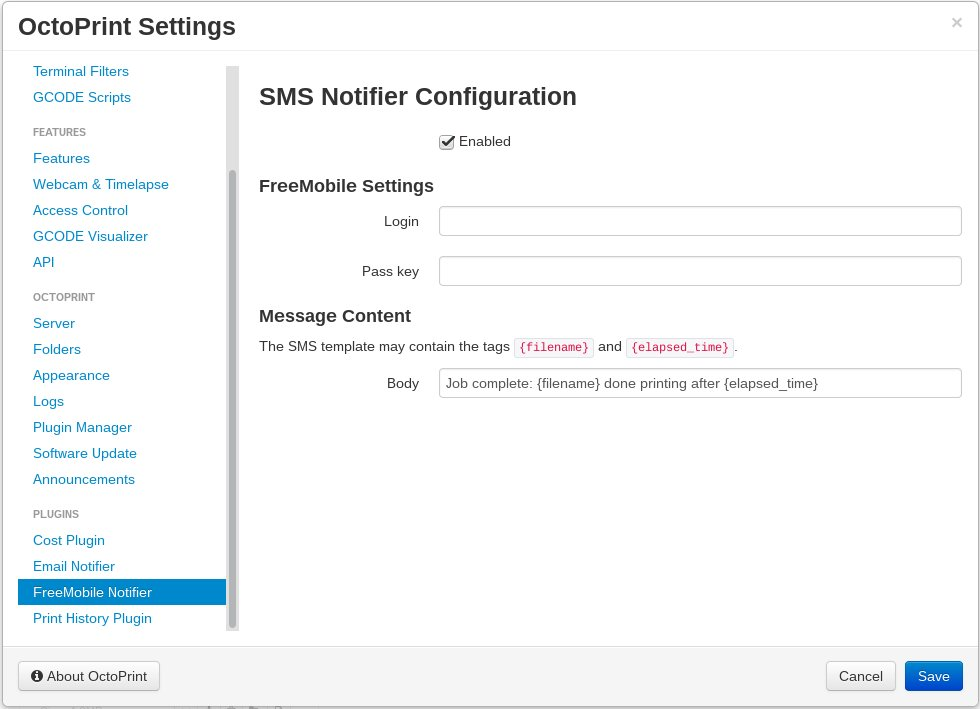
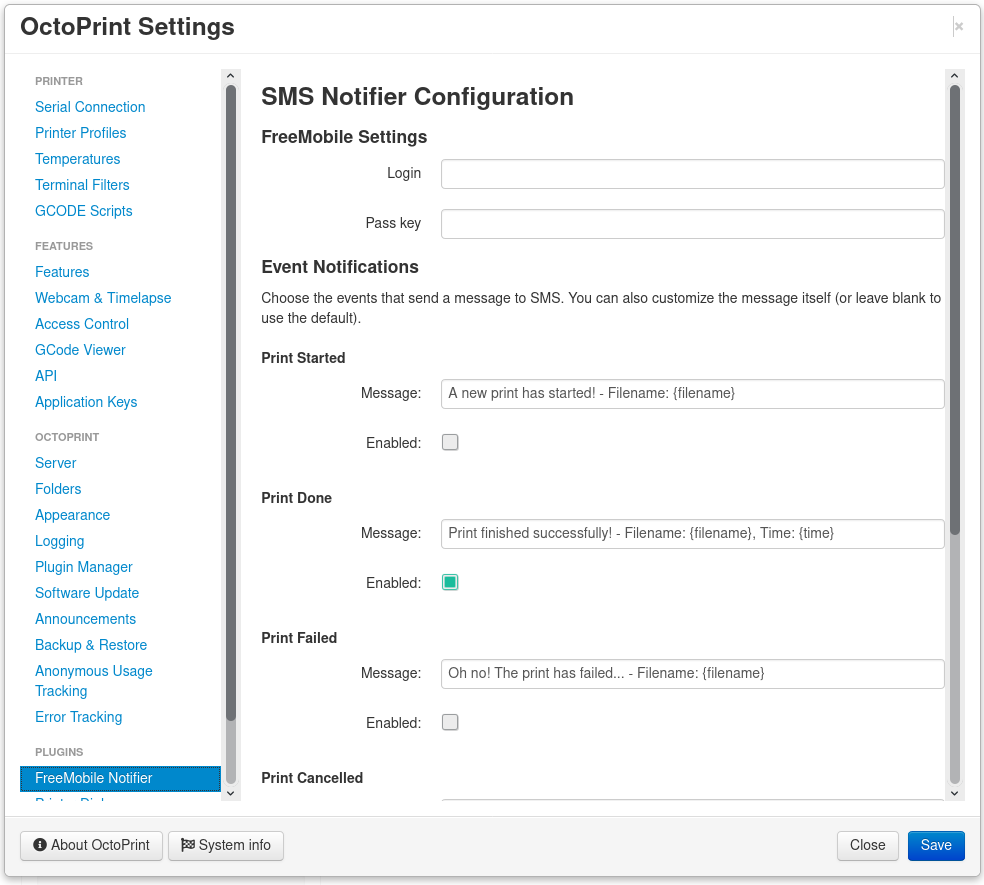
Feature : select which events you want to trigger.

diff --git a/octoprint_freemobilenotifier/__init__.py b/octoprint_freemobilenotifier/__init__.py
@@ -10,57 +10,95 @@ standard_library.install_aliases()
 from urllib import request,parse
 
 class FreemobilenotifierPlugin(octoprint.plugin.EventHandlerPlugin,
-                               octoprint.plugin.SettingsPlugin,
-                               octoprint.plugin.AssetPlugin,
-                               octoprint.plugin.TemplatePlugin):
+															octoprint.plugin.SettingsPlugin,
+															octoprint.plugin.AssetPlugin,
+															octoprint.plugin.TemplatePlugin):
 
 	#~~ SettingsPlugin
 	def get_settings_defaults(self):
 		return dict(
-			enabled=False,
 			login="",
 			pass_key="",
-			message_format=dict(
-				body="Job complete: {filename} done printing after {elapsed_time}"
+			print_events=dict(
+					PrintStarted=dict(
+							Enabled=False,
+							Message="A new print has started! - Filename: {filename}",
+							),
+					PrintFailed=dict(
+							Enabled=False,
+							Message="Oh no! The print has failed... - Filename: {filename}",
+							),
+					PrintCancelled=dict(
+							Enabled=False,
+							Message="Uh oh... someone cancelled the print! - Filename: {filename}",
+							),
+					PrintDone=dict(
+							Enabled=True,
+							Message="Print finished successfully! - Filename: {filename}, Time: {time}",
+							),
+					PrintPaused=dict(
+							Enabled=False,
+							Message="Printing has been paused... - Filename: {filename}",
+							Color="warning",
+							),
+					PrintResumed=dict(
+							Enabled=False,
+							Message="Phew! Printing has been resumed! Back to work... - Filename: {filename}",
+							),
+					),
 			)
-		)
-
 	def get_settings_version(self):
 		return 1
-
+	
 	#~~ TemplatePlugin
 	def get_template_configs(self):
 		return [dict(type="settings", name="FreeMobile Notifier", custom_bindings=False)]
-
-	#~~ EventPlugin
+	
 	def on_event(self, event, payload):
-		if event != "PrintDone":
-			return
-
-		if not self._settings.get(['enabled']):
-			return
-
-		filename = payload["name"]
-
-		import datetime
-		import octoprint.util
-		elapsed_time = octoprint.util.get_formatted_timedelta(datetime.timedelta(seconds=payload["time"]))
-
-		tags = {'filename': filename, 'elapsed_time': elapsed_time}
-		message = parse.quote(self._settings.get(["message_format", "body"]).format(**tags))
-		login = self._settings.get(["login"])
-		pass_key = self._settings.get(["pass_key"])
-		url = 'https://smsapi.free-mobile.fr/sendmsg?&user='+login+'&pass='+pass_key+'&msg='+message
-
-		try:
-				request.urlopen(url)
-		except Exception as e:
-			# report problem sending sms
-			self._logger.exception("SMS notification error: %s" % (str(e)))
+		
+		events = self._settings.get(['print_events'], merged=True)
+		
+		if event in events and events[event] and events[event]['Enabled']:
+			
+				login = self._settings.get(['login'])
+				if not login:
+						self._logger.exception("Free login is not set!")
+						return
+				pass_key = self._settings.get(['pass_key'])
+				if not pass_key:
+						self._logger.exception("Free key is not set!")
+						return
+					
+				filename = payload["name"]
+				message = {}
+				
+				## event settings
+				event = self._settings.get(['print_events', event], merged=True)
+				
+				import datetime
+				import octoprint.util
+				if "time" in payload and payload["time"]:
+						elapsed_time = octoprint.util.get_formatted_timedelta(datetime.timedelta(seconds=payload["time"]))
+				else:
+						elapsed_time = ""
+						
+				message = parse.quote(event['Message'].format(**{'filename': filename, 'time':elapsed_time}))
+				login = self._settings.get(["login"])
+				pass_key = self._settings.get(["pass_key"])
+				url = 'https://smsapi.free-mobile.fr/sendmsg?&user='+login+'&pass='+pass_key+'&msg='+message
+				
+				try:
+						request.urlopen(url)
+				except Exception as e:
+					# report problem sending sms
+					self._logger.exception("SMS notification error: %s" % (str(e)))
+				else:
+					# report notification was sent
+					self._logger.info("Print notification sent to %s" % (self._settings.get(['login'])))
 		else:
-			# report notification was sent
-			self._logger.info("Print notification sent to %s" % (self._settings.get(['login'])))
-
+				self._logger.debug("SMS not configured for event.")
+				return
+			
 	##~~ Softwareupdate hook
 	def get_update_information(self):
 		return dict(

diff --git a/setup.py b/setup.py
@@ -14,7 +14,7 @@ plugin_package = "octoprint_freemobilenotifier"
 plugin_name = "OctoPrint_FreeMobile-Notifier"
 
 # The plugin's version. Can be overwritten within OctoPrint's internal data via __plugin_version__ in the plugin module
-plugin_version = "0.1.5"
+plugin_version = "0.1.6"
 
 # The plugin's description. Can be overwritten within OctoPrint's internal data via __plugin_description__ in the plugin
 # module
